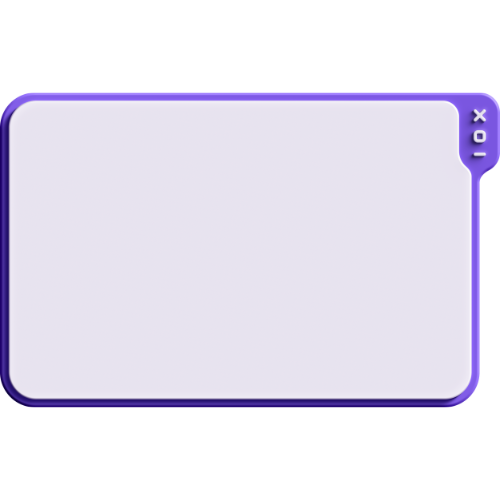
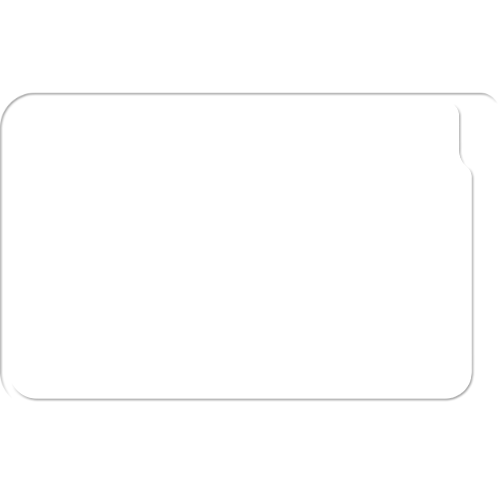
set primaryColor to win and pause frame

diff --git a/components/games/SmashBlitzThrow/UI/LevelCompletePopup.ts b/components/games/SmashBlitzThrow/UI/LevelCompletePopup.ts
@@ -14,7 +14,12 @@ export class LevelCompletePopup {
   drawBlackBg: () => void;
   nextLevelTitle: Phaser.GameObjects.Text;
 
-  constructor(_scene: Phaser.Scene, width: number, height: number) {
+  constructor(
+    _scene: Phaser.Scene,
+    width: number,
+    height: number,
+    colorString: string
+  ) {
     this.scene = _scene;
 
     this.blach_bg = _scene.add.graphics();
@@ -98,12 +103,14 @@ export class LevelCompletePopup {
       .sprite(50, 35, "coins")
       .setOrigin(0.5, 0.5)
       .setDisplaySize(45, 45);*/
-
+    let primaryColor =
+      Phaser.Display.Color.HexStringToColor(colorString).color32;
     let blue_btn = _scene.add
       .sprite(0, 110, "blue_btn")
       .setOrigin(0.5, 0.5)
       .setInteractive()
-      .setDisplaySize(120 * 1.3, 90 * 1.3);
+      .setDisplaySize(120 * 1.3, 90 * 1.3)
+      .setTint(primaryColor);
 
     blue_btn.on(Phaser.Input.Events.GAMEOBJECT_POINTER_UP, () =>
       _scene.events.emit("LevelCompletePopup:onClaimBtnClick")
@@ -117,7 +124,7 @@ export class LevelCompletePopup {
     );
 
     let claimTitle = _scene.add
-      .text(0, 97 + 10, `CLAIM`, font)
+      .text(0, 97 + 10, `PLAY`, font)
       .setOrigin(0.5, 0.5)
       .setSize(200, 500)
       .setFontSize(40)
@@ -137,6 +144,19 @@ export class LevelCompletePopup {
       .sprite(0, 0, "popup_bg")
       .setOrigin(0.5, 0.5)
       .setDisplaySize(500, 500)
+      .setInteractive()
+      .setTint(primaryColor);
+      
+    let popup_bg_btns = _scene.add
+      .sprite(0, 0, "popup_bg_btns")
+      .setOrigin(0.5, 0.5)
+      .setDisplaySize(500, 500)
+      .setInteractive();
+
+    let popup_bg_white = _scene.add
+      .sprite(0, 0, "popup_bg_white")
+      .setOrigin(0.5, 0.5)
+      .setDisplaySize(500, 500)
       .setInteractive();
 
     //this.group.add(  this.blach_bg);
@@ -154,6 +174,8 @@ export class LevelCompletePopup {
     playerCharacter.setPosition(-120, 70);
 
     this.group.add(bg);
+    this.group.add(popup_bg_btns);
+    this.group.add(popup_bg_white);
     this.group.add(playerCharacter);
     this.group.add(this.title);
     this.group.add(targetHitTitle);

diff --git a/components/games/SmashBlitzThrow/UI/PausePopup.ts b/components/games/SmashBlitzThrow/UI/PausePopup.ts
@@ -3,7 +3,7 @@ import { Global } from "../Global";
 
 export class PausePopup {
   scene: Phaser.Scene;
-  constructor(_scene: Phaser.Scene) {
+  constructor(_scene: Phaser.Scene, colorString: string) {
     this.scene = _scene;
     let centerX = _scene.renderer.width / 2;
     let centerY = _scene.renderer.height / 2;
@@ -27,18 +27,32 @@ export class PausePopup {
       )
       .setInteractive();
 
-      let gamePausedTitle = _scene.add
+    let gamePausedTitle = _scene.add
       .text(-145, -60, `GAME PAUSED`, font)
       .setOrigin(0, 0.5)
       .setSize(200, 500)
       .setFontSize(40)
       .setAlign("left")
       .setColor("#000050")
-      .setPadding(0, 0, 5, 0)
+      .setPadding(0, 0, 5, 0);
     //  .setFontStyle("bold");
-
+    let primaryColor =
+      Phaser.Display.Color.HexStringToColor(colorString).color32;
     let popupbg = _scene.add
       .sprite(0, 0, "popup_bg")
+      .setOrigin(0.5, 0.5)
+      .setDisplaySize(500, 500)
+      .setInteractive()
+      .setTint(primaryColor);
+
+    let popup_bg_btns = _scene.add
+      .sprite(0, 0, "popup_bg_btns")
+      .setOrigin(0.5, 0.5)
+      .setDisplaySize(500, 500)
+      .setInteractive();
+
+    let popup_bg_white = _scene.add
+      .sprite(0, 0, "popup_bg_white")
       .setOrigin(0.5, 0.5)
       .setDisplaySize(500, 500)
       .setInteractive();
@@ -50,7 +64,7 @@ export class PausePopup {
       .setDisplaySize(150, 60);
 
     let resume = _scene.add
-      .sprite(-80,70, "resume")
+      .sprite(-80, 70, "resume")
       .setOrigin(0.5, 0.5)
       .setInteractive()
       .setDisplaySize(150, 60);
@@ -64,13 +78,13 @@ export class PausePopup {
       this.scene.events.emit("PausePopup:onQuitClick");
     });
 
-   
-
-
     group.add(blach_bg);
     group.add(popupbg);
+    group.add(popup_bg_btns);
+    group.add(popup_bg_white);
+
+
     group.add(gamePausedTitle);
-    
 
     group.add(quit);
     group.add(resume);

diff --git a/components/games/SmashBlitzThrow/app.ts b/components/games/SmashBlitzThrow/app.ts
@@ -152,7 +152,7 @@ export default class SmashBlitzThrowing extends Phaser.Scene {
       ? this.params.backgroundSprite
       : undefined;
     new BackGroundManager(this, backgroundSprite, this.width, this.height); //this.params.backgroundSprite);
-   /* let versiontxt = this.make.text({
+    /* let versiontxt = this.make.text({
       x: this.renderer.width,
       y: this.renderer.height,
       origin: 1,
@@ -162,7 +162,7 @@ export default class SmashBlitzThrowing extends Phaser.Scene {
         font: "20px monospace",
       },
     });*/
-   // versiontxt.setStroke(`0x000000`, 2);
+    // versiontxt.setStroke(`0x000000`, 2);
 
     let throwingCenterX = this.widthFactor * 1.6;
     let throwingCenterY = this.heightFactor * 7.3;
@@ -304,10 +304,13 @@ export default class SmashBlitzThrowing extends Phaser.Scene {
     progressBox.setPos(this.widthFactor * 2, this.heightFactor * 9.35);
     let ballGravity = new BallGravity(this);
 
+    let primaryColor = this.params ? this.params.primaryColor : "#1B61D4";
+
     this.levelCompletePopup = new LevelCompletePopup(
       this,
       this.width,
-      this.height
+      this.height,
+      primaryColor
     );
     this.levelCompletePopup.setPos(this.width / 2, this.height / 2);
     this.levelCompletePopup.hide();
@@ -375,7 +378,7 @@ export default class SmashBlitzThrowing extends Phaser.Scene {
 
     new LoseManager(this);
     new WinManager(this);
-    new PausePopup(this);
+    new PausePopup(this,primaryColor);
 
     this.powerupOverlay = PowerupOverlay.getInstance(this);
     this.add.container(this.width / 2, this.height / 2, this.powerupOverlay);
@@ -427,7 +430,7 @@ export default class SmashBlitzThrowing extends Phaser.Scene {
 }
 
 window.onload = () => {
- /* const config = {
+  /* const config = {
     type: Phaser.AUTO,
     width: 960,
     height: 512,

diff --git a/components/games/SmashBlitzThrow/AssetsLoader.ts b/components/games/SmashBlitzThrow/AssetsLoader.ts
@@ -62,6 +62,8 @@ export class AssetsLoader {
     this.scene.load.image("rounded_rectangle2", "rounded_rectangle2.png");
     this.scene.load.image("goal", "goal.png");
     this.scene.load.image("popup_bg", "popup_bg.png");
+    this.scene.load.image("popup_bg_white", "popup_bg_white.png");
+    this.scene.load.image("popup_bg_btns", "popup_bg_btns.png");
     this.scene.load.image("blue_btn", "blue_btn.png");
     this.scene.load.image("coins", "coins.png");
     this.scene.load.image("green_ads_btn", "green_ads_btn.png");
